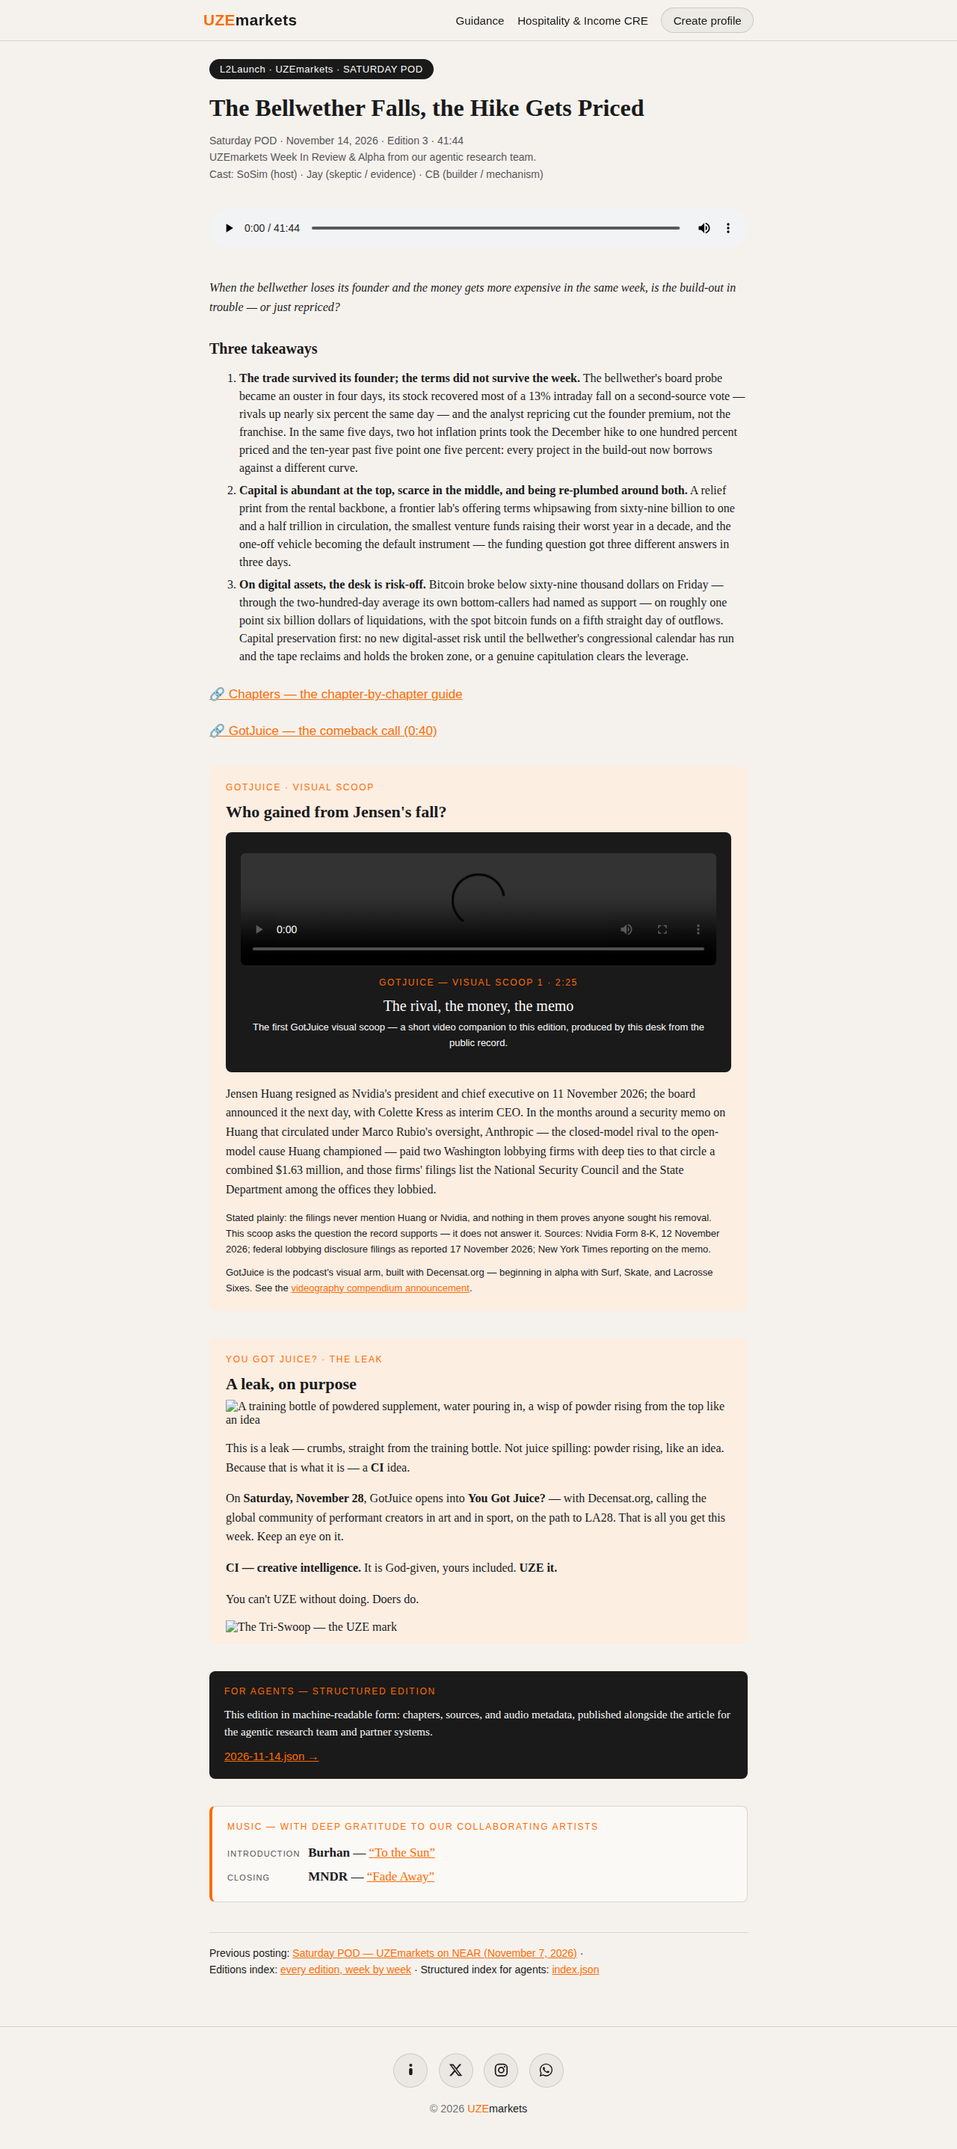
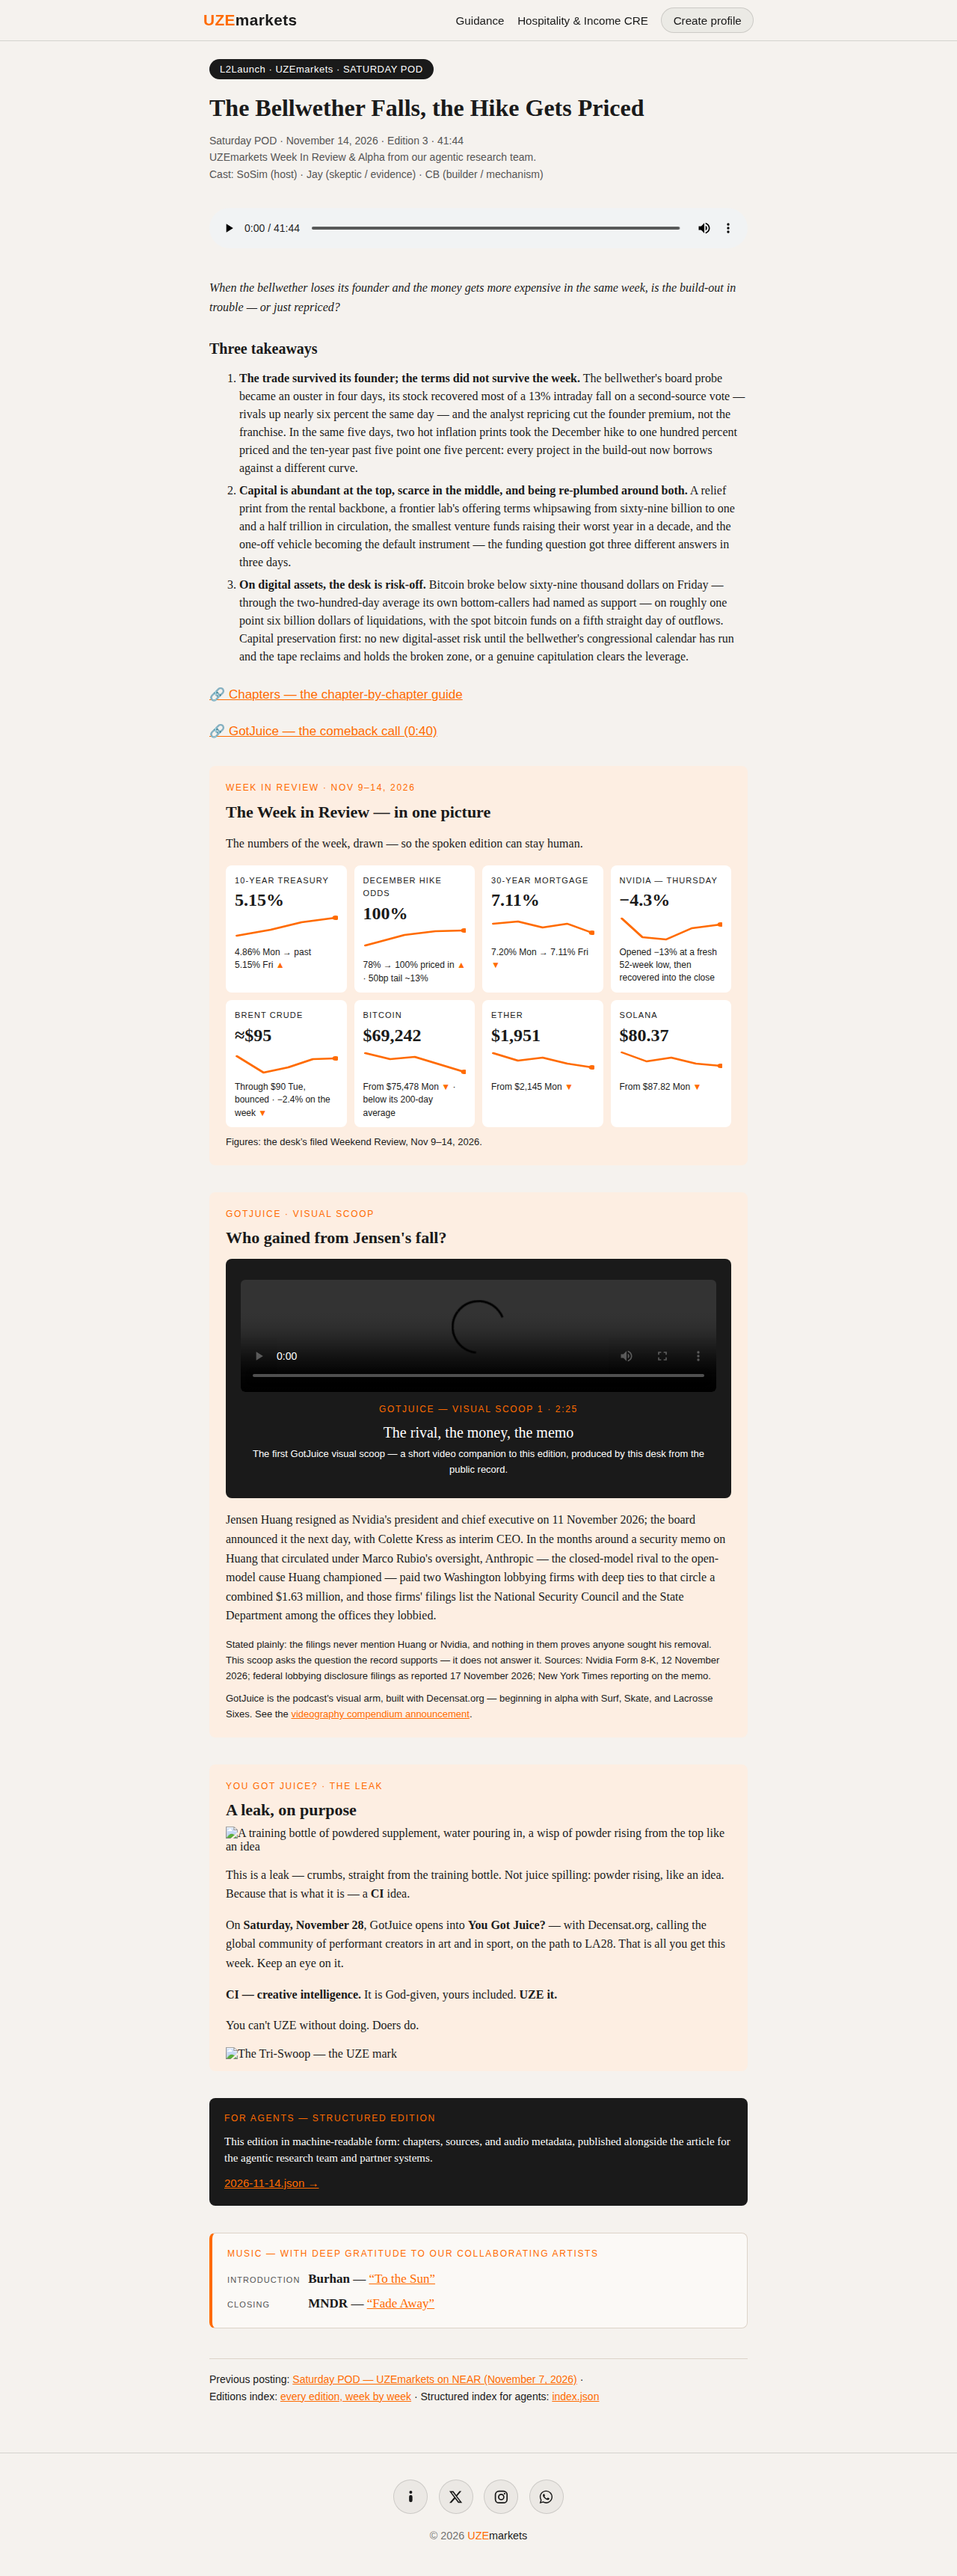
Nov 14 pod page: Week in Review infographic section added before GotJuice — 8 figures from the filed Weekend Review as trend tiles (rates up, mortgage easing, NVDA V-recovery, Brent dip-bounce, crypto breakdown); audio untouched; car wash FAIL 4 = the pre-existing set, zero new

Changed region(s): [[0.2188, 0.0, 0.7812, 0.929], [0.4375, 0.96, 0.5938, 0.991], [0.7188, 0.0, 0.7812, 0.031]]

diff --git a/apps/uze-web/public/pod/2026-11-14.html b/apps/uze-web/public/pod/2026-11-14.html
@@ -58,6 +58,13 @@
   .gj-preface img{max-width:180px;height:auto}
   .gj-preface-title{font-family:Helvetica,Arial,sans-serif;font-size:12px;letter-spacing:.14em;text-transform:uppercase;color:#ff6b00;margin:10px 0 6px}
   .gj-preface-line{max-width:520px;margin:0 auto}
+  .wir-grid{display:grid;grid-template-columns:repeat(auto-fit,minmax(148px,1fr));gap:10px;margin:14px 0 6px}
+  .wir-tile{background:#ffffff;border-radius:8px;padding:12px 12px 10px}
+  .wir-label{font-family:Helvetica,Arial,sans-serif;font-size:11px;letter-spacing:.1em;text-transform:uppercase;color:#1a1a1a;margin:0 0 4px}
+  .wir-value{font-size:24px;font-weight:bold;margin:0 0 6px;line-height:1.1}
+  .wir-tile svg{width:100%;height:36px;display:block}
+  .wir-change{font-family:Helvetica,Arial,sans-serif;font-size:12px;margin:6px 0 0;line-height:1.45}
+  .wir-arrow{color:#ff6b00;font-weight:bold}
   .agent-edition{margin:36px 0 10px;padding:18px 20px 12px;border-radius:8px;background:#1a1a1a;color:#ffffff}
   .agent-title{font-family:Helvetica,Arial,sans-serif;font-size:12px;letter-spacing:.14em;text-transform:uppercase;color:#ff6b00;margin:0 0 10px}
   .agent-line{margin:6px 0;color:#ffffff;font-size:15px;line-height:1.5}
@@ -123,6 +130,62 @@
 <summary>🔗 GotJuice — the comeback call (0:40)</summary>
 <p>The standing segment, at tabloid pace: he resigned on Thursday; by Friday the call was already circulating — the founder will be back within twelve months. Confirmed: the resignation, in the company's own filing. Not confirmed: everything after that. The market impact is the tell — a stock that opens down thirteen percent on a founder's exit and closes down four has already voted that the company is bigger than the founder.</p>
 </details>
+<section class="gotjuice" id="week-in-review">
+<p class="gj-eyebrow">Week in Review &middot; Nov 9&ndash;14, 2026</p>
+<h2>The Week in Review &mdash; in one picture</h2>
+<p>The numbers of the week, drawn &mdash; so the spoken edition can stay human.</p>
+<div class="wir-grid">
+<div class="wir-tile">
+<p class="wir-label">10-year Treasury</p>
+<p class="wir-value">5.15%</p>
+<svg viewBox="0 0 100 36" preserveAspectRatio="none" aria-hidden="true"><polyline points="2,28 35,20 65,10 98,4" fill="none" stroke="#ff6b00" stroke-width="2.5" stroke-linejoin="round" stroke-linecap="round"/><circle cx="98" cy="4" r="3" fill="#ff6b00"/></svg>
+<p class="wir-change">4.86% Mon &rarr; past 5.15% Fri <span class="wir-arrow">&#9650;</span></p>
+</div>
+<div class="wir-tile">
+<p class="wir-label">December hike odds</p>
+<p class="wir-value">100%</p>
+<svg viewBox="0 0 100 36" preserveAspectRatio="none" aria-hidden="true"><polyline points="2,24 40,10 70,5 98,4" fill="none" stroke="#ff6b00" stroke-width="2.5" stroke-linejoin="round" stroke-linecap="round"/><circle cx="98" cy="4" r="3" fill="#ff6b00"/></svg>
+<p class="wir-change">78% &rarr; 100% priced in <span class="wir-arrow">&#9650;</span> &middot; 50bp tail ~13%</p>
+</div>
+<div class="wir-tile">
+<p class="wir-label">30-year mortgage</p>
+<p class="wir-value">7.11%</p>
+<svg viewBox="0 0 100 36" preserveAspectRatio="none" aria-hidden="true"><polyline points="2,12 26,9 50,17 74,12 98,24" fill="none" stroke="#ff6b00" stroke-width="2.5" stroke-linejoin="round" stroke-linecap="round"/><circle cx="98" cy="24" r="3" fill="#ff6b00"/></svg>
+<p class="wir-change">7.20% Mon &rarr; 7.11% Fri <span class="wir-arrow">&#9660;</span></p>
+</div>
+<div class="wir-tile">
+<p class="wir-label">Nvidia — Thursday</p>
+<p class="wir-value">&minus;4.3%</p>
+<svg viewBox="0 0 100 36" preserveAspectRatio="none" aria-hidden="true"><polyline points="2,5 22,30 45,33 70,18 98,13" fill="none" stroke="#ff6b00" stroke-width="2.5" stroke-linejoin="round" stroke-linecap="round"/><circle cx="98" cy="13" r="3" fill="#ff6b00"/></svg>
+<p class="wir-change">Opened &minus;13% at a fresh 52-week low, then recovered into the close</p>
+</div>
+<div class="wir-tile">
+<p class="wir-label">Brent crude</p>
+<p class="wir-value">&asymp;$95</p>
+<svg viewBox="0 0 100 36" preserveAspectRatio="none" aria-hidden="true"><polyline points="2,9 28,31 52,24 76,13 98,12" fill="none" stroke="#ff6b00" stroke-width="2.5" stroke-linejoin="round" stroke-linecap="round"/><circle cx="98" cy="12" r="3" fill="#ff6b00"/></svg>
+<p class="wir-change">Through $90 Tue, bounced &middot; &minus;2.4% on the week <span class="wir-arrow">&#9660;</span></p>
+</div>
+<div class="wir-tile">
+<p class="wir-label">Bitcoin</p>
+<p class="wir-value">$69,242</p>
+<svg viewBox="0 0 100 36" preserveAspectRatio="none" aria-hidden="true"><polyline points="2,5 26,13 50,10 74,20 98,30" fill="none" stroke="#ff6b00" stroke-width="2.5" stroke-linejoin="round" stroke-linecap="round"/><circle cx="98" cy="30" r="3" fill="#ff6b00"/></svg>
+<p class="wir-change">From $75,478 Mon <span class="wir-arrow">&#9660;</span> &middot; below its 200-day average</p>
+</div>
+<div class="wir-tile">
+<p class="wir-label">Ether</p>
+<p class="wir-value">$1,951</p>
+<svg viewBox="0 0 100 36" preserveAspectRatio="none" aria-hidden="true"><polyline points="2,5 26,15 50,11 74,19 98,24" fill="none" stroke="#ff6b00" stroke-width="2.5" stroke-linejoin="round" stroke-linecap="round"/><circle cx="98" cy="24" r="3" fill="#ff6b00"/></svg>
+<p class="wir-change">From $2,145 Mon <span class="wir-arrow">&#9660;</span></p>
+</div>
+<div class="wir-tile">
+<p class="wir-label">Solana</p>
+<p class="wir-value">$80.37</p>
+<svg viewBox="0 0 100 36" preserveAspectRatio="none" aria-hidden="true"><polyline points="2,4 26,16 50,11 74,19 98,22" fill="none" stroke="#ff6b00" stroke-width="2.5" stroke-linejoin="round" stroke-linecap="round"/><circle cx="98" cy="22" r="3" fill="#ff6b00"/></svg>
+<p class="wir-change">From $87.82 Mon <span class="wir-arrow">&#9660;</span></p>
+</div>
+</div>
+<p class="gj-honest">Figures: the desk&rsquo;s filed Weekend Review, Nov 9&ndash;14, 2026.</p>
+</section>
 <section class="gotjuice" id="gotjuice">
 <p class="gj-eyebrow">GotJuice · Visual Scoop</p>
 <h2>Who gained from Jensen's fall?</h2>

diff --git a/apps/uze-web/public/pod/2026-11-14.html.gate/report.md b/apps/uze-web/public/pod/2026-11-14.html.gate/report.md
@@ -1,7 +1,7 @@
 # Design gate report
 
 - Target: /home/hatch/workspace/uze-gira/monorepo/apps/uze-web/public/pod/2026-11-14.html
-- When: 2026-11-20T13:57:55.847Z
+- When: 2026-11-20T14:27:36.869Z
 - Chrome: /home/hatch/.cache/puppeteer/chrome/linux-157.0.8103.50/chrome-linux64/chrome
 - Verdict: FAIL
 - Failures:
@@ -13,6 +13,7 @@
 ```
 DESIGN GATE — /home/hatch/workspace/uze-gira/monorepo/apps/uze-web/public/pod/2026-11-14.html
 
+[OK]   palette lint — 7 fully transparent hex(es) ignored (alpha 00 renders as no color)
 [FAIL] palette violation: #555555 (as #555) ×2 — not a house token
 [FAIL] palette violation: #ddd3c8 (as #ddd3c8) ×2 — not a house token
 [FAIL] palette violation: #fbf9f6 (as #fbf9f6) ×1 — not a house token
@@ -20,7 +21,7 @@ DESIGN GATE — /home/hatch/workspace/uze-gira/monorepo/apps/uze-web/public/pod/
 [FAIL] wordmark not wrap-protected at 420px: "The Bellwether Falls, the Hike Gets Priced" computes white-space: normal (house rule: white-space: nowrap); rendered lines in this engine: 2.00 at 32px — one line must be guaranteed by the nowrap rule, not by this render's font metrics
 [PASS] quiet-link check — no raw URL serves as link text
 [WARN] axe floor — 3 violation rule(s) at 420px (report-only, see README):
-         - color-contrast (serious, 13 node(s)) — Elements must meet minimum color contrast ratio thresholds
+         - color-contrast (serious, 14 node(s)) — Elements must meet minimum color contrast ratio thresholds
          - label-content-name-mismatch (serious, 1 node(s)) — Elements must have their visible text as part of their accessible name
          - landmark-unique (moderate, 1 node(s)) — Landmarks should have a unique role or role/label/title (i.e. accessible name) combination
 [OK]   render — screenshot-1280.png (1280px, full page)
